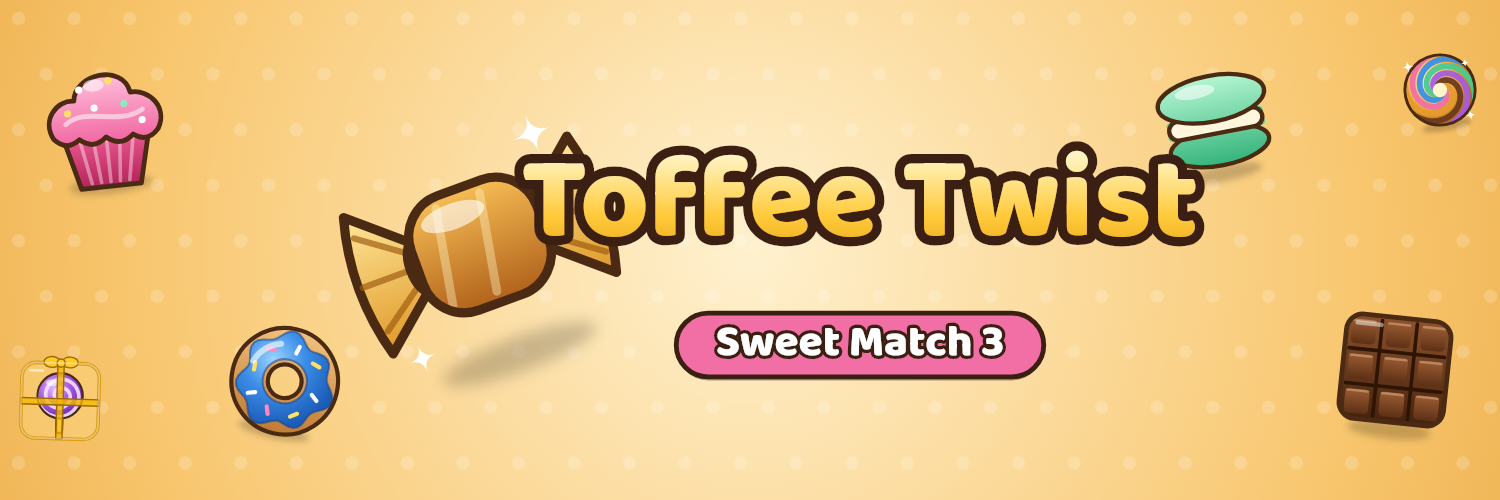
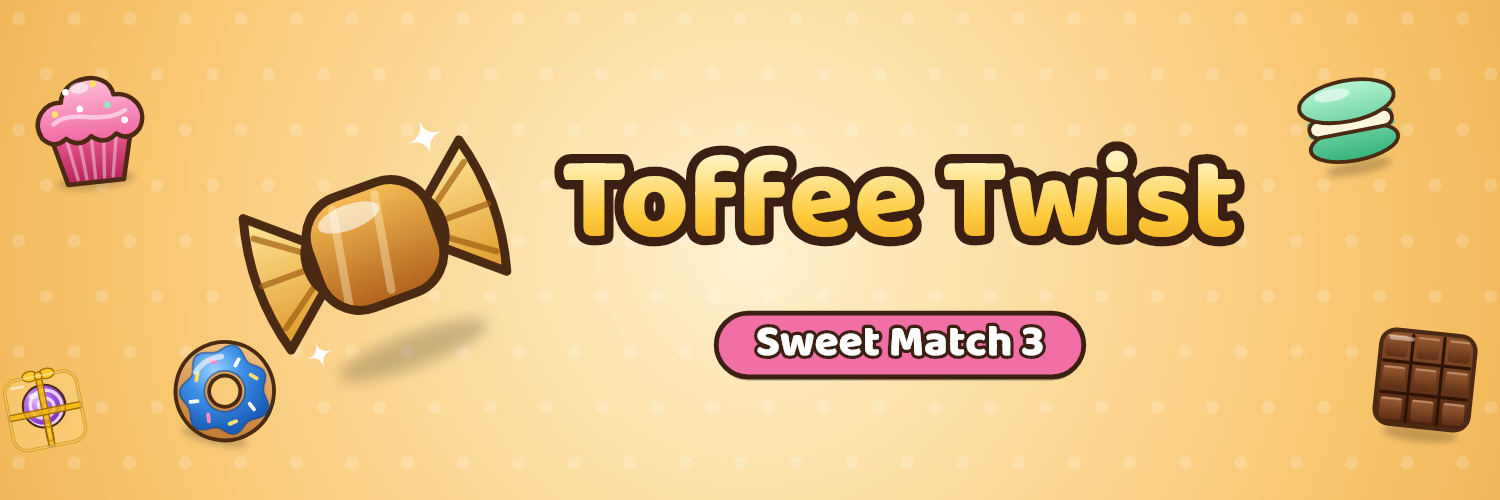
Marketing pack: tidy the 1500x500 header layout
Claude-Session: https://claude.ai/code/session_01JLWbWQY3NEjNuhKBNdMmNX

diff --git a/tool/branding/render_marketing_test.dart b/tool/branding/render_marketing_test.dart
@@ -96,16 +96,15 @@ void main() {
     await savePng('store_assets/banners/header_1500x500.png', 1500, 500, (c, s) {
       warmBackground(c, s);
       scatterSweets(c, s, const [
-        (0.07, 0.25, 0.30, 1, Special.none),
-        (0.19, 0.76, 0.26, 2, Special.none),
-        (0.81, 0.24, 0.27, 3, Special.none),
-        (0.93, 0.74, 0.30, 5, Special.none),
-        (0.96, 0.18, 0.18, -1, Special.swirl),
-        (0.04, 0.80, 0.18, 4, Special.box),
+        (0.06, 0.25, 0.28, 1, Special.none),
+        (0.15, 0.78, 0.24, 2, Special.none),
+        (0.90, 0.24, 0.24, 3, Special.none),
+        (0.95, 0.76, 0.27, 5, Special.none),
+        (0.03, 0.82, 0.17, 4, Special.box),
       ]);
-      toffee(c, const Offset(480, 245), 290);
-      outlinedText(c, 'Toffee Twist', const Offset(860, 215), 118);
-      pill(c, 'Sweet Match 3', const Offset(860, 345), 44);
+      toffee(c, const Offset(375, 245), 280);
+      outlinedText(c, 'Toffee Twist', const Offset(900, 215), 118);
+      pill(c, 'Sweet Match 3', const Offset(900, 345), 44);
     });
 
     // Vertical story (Instagram / TikTok / WhatsApp status): 1080 x 1920.
